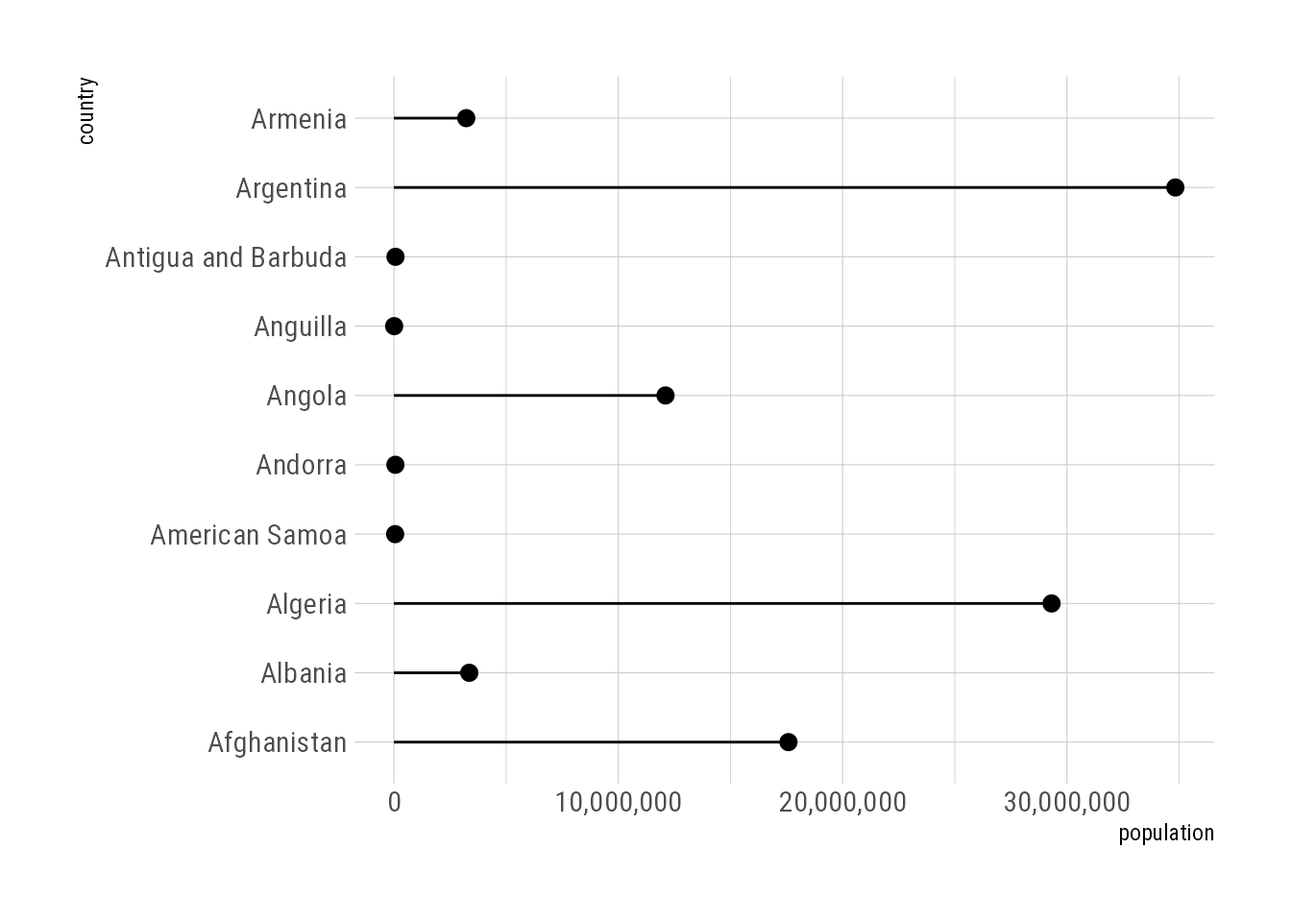
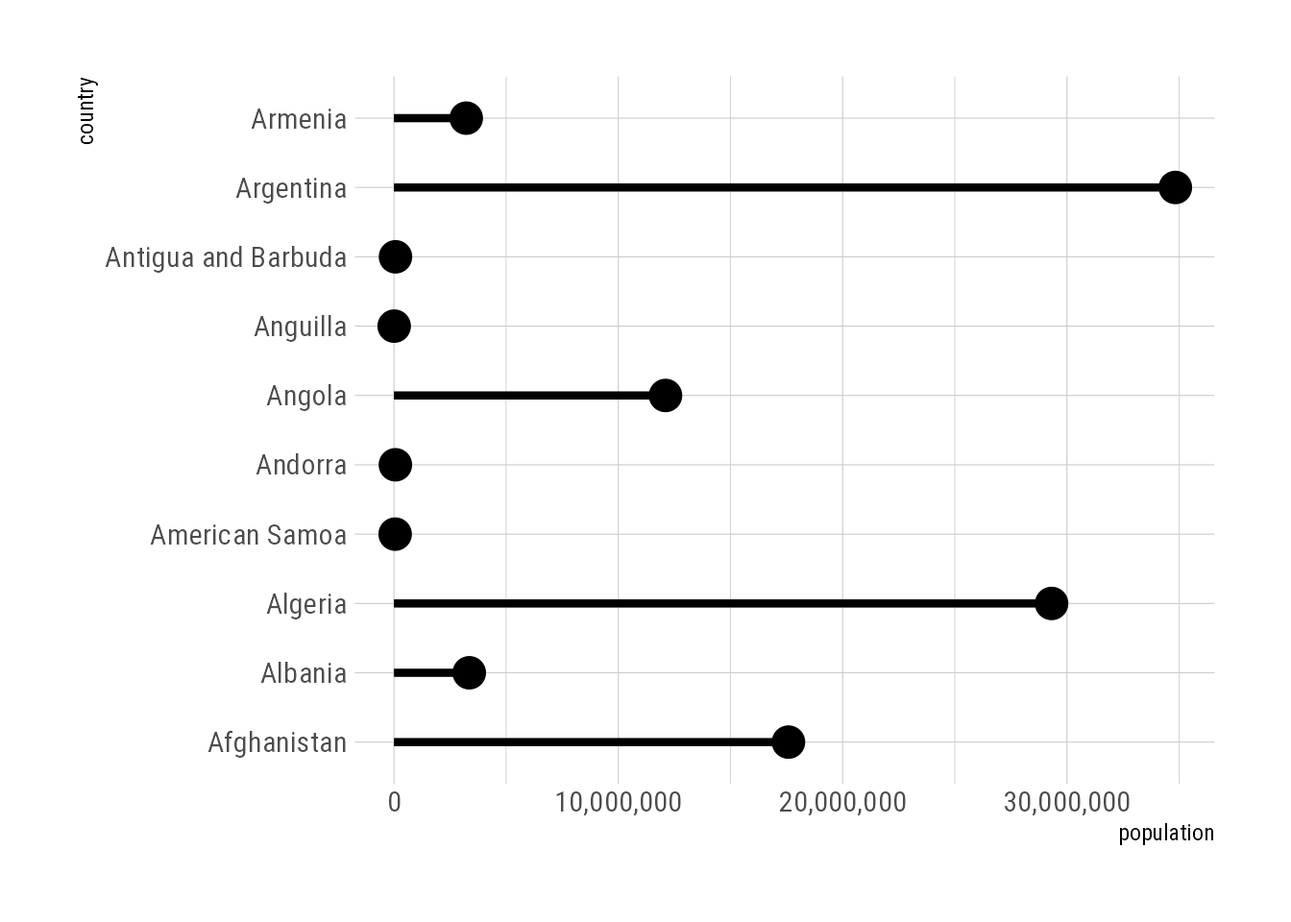
润色

diff --git a/_site/posts/文档词频.html b/_site/posts/文档词频.html
@@ -182,10 +182,11 @@ pre > code.sourceCode > span > a:first-child::before { text-decoration: underlin
 <div class="cell" data-layout-align="center">
 <div class="sourceCode cell-code" id="cb1"><pre class="sourceCode r code-with-copy"><code class="sourceCode r"><span id="cb1-1"><a href="#cb1-1" aria-hidden="true" tabindex="-1"></a><span class="fu">library</span>(tidyverse)</span>
 <span id="cb1-2"><a href="#cb1-2" aria-hidden="true" tabindex="-1"></a><span class="fu">library</span>(tidytext)</span>
-<span id="cb1-3"><a href="#cb1-3" aria-hidden="true" tabindex="-1"></a><span class="fu">theme_set</span>(hrbrthemes<span class="sc">::</span><span class="fu">theme_ipsum_rc</span>())</span></code><button title="Copy to Clipboard" class="code-copy-button"><i class="bi"></i></button></pre></div>
+<span id="cb1-3"><a href="#cb1-3" aria-hidden="true" tabindex="-1"></a><span class="fu">theme_set</span>(hrbrthemes<span class="sc">::</span><span class="fu">theme_ipsum_rc</span>())</span>
+<span id="cb1-4"><a href="#cb1-4" aria-hidden="true" tabindex="-1"></a><span class="fu">update_geom_defaults</span>(<span class="st">"pointrange"</span>, <span class="at">new =</span> <span class="fu">list</span>(<span class="at">size =</span> <span class="fl">1.2</span>, <span class="at">linewidth =</span> <span class="fl">1.5</span>))</span></code><button title="Copy to Clipboard" class="code-copy-button"><i class="bi"></i></button></pre></div>
 </div>
-<p>一般在绘制条形图或克里夫兰点图时，会按照柱子或点的高低对变量进行排序，这样绘制出的图整洁美观。</p>
-<p>比如</p>
+<p>一般在绘制条形图或克里夫兰点图时，会按照柱子或点的高低对变量进行排序，以使图形更加整洁美观。</p>
+<p>例如：</p>
 <div>
 <div class="sourceCode cell-code" id="cb2"><pre class="sourceCode r code-with-copy"><code class="sourceCode r"><span id="cb2-1"><a href="#cb2-1" aria-hidden="true" tabindex="-1"></a>pop_data <span class="ot">&lt;-</span> population <span class="sc">%&gt;%</span> </span>
 <span id="cb2-2"><a href="#cb2-2" aria-hidden="true" tabindex="-1"></a>  <span class="fu">filter</span>(year <span class="sc">==</span> <span class="dv">1995</span>) <span class="sc">%&gt;%</span> </span>
@@ -224,7 +225,7 @@ pre > code.sourceCode > span > a:first-child::before { text-decoration: underlin
 </div>
 </div>
 </div>
-<p>上面的排序是借助<code>fct_reorder()</code>函数实现的。最近在学习文本数据处理时，发现这种方法在分面时会出错。</p>
+<p>上面的排序是借助<code>fct_reorder()</code>函数实现的。然而,在处理文本数据并绘制分面图时,我发现这种方法会出现问题。</p>
 <div class="cell" data-layout-align="center">
 <div class="sourceCode cell-code" id="cb3"><pre class="sourceCode r code-with-copy"><code class="sourceCode r"><span id="cb3-1"><a href="#cb3-1" aria-hidden="true" tabindex="-1"></a>exm_data <span class="ot">&lt;-</span> <span class="fu">tibble</span>(</span>
 <span id="cb3-2"><a href="#cb3-2" aria-hidden="true" tabindex="-1"></a>  <span class="at">x =</span> <span class="fu">rep</span>(LETTERS[<span class="dv">1</span><span class="sc">:</span><span class="dv">5</span>], <span class="dv">2</span>),</span>
@@ -237,16 +238,16 @@ pre > code.sourceCode > span > a:first-child::before { text-decoration: underlin
 <pre><code># A tibble: 10 × 3
    x         y z     
    &lt;chr&gt; &lt;int&gt; &lt;chr&gt; 
- 1 A         5 group1
- 2 B         4 group1
- 3 C         7 group1
+ 1 A         4 group1
+ 2 B         3 group1
+ 3 C         2 group1
  4 D         1 group1
- 5 E         3 group1
- 6 A        10 group2
- 7 B         2 group2
- 8 C         6 group2
- 9 D         8 group2
-10 E         9 group2</code></pre>
+ 5 E        10 group1
+ 6 A         7 group2
+ 7 B         5 group2
+ 8 C         9 group2
+ 9 D         6 group2
+10 E         8 group2</code></pre>
 </div>
 </div>
 <div class="cell" data-layout-align="center">
@@ -256,7 +257,8 @@ pre > code.sourceCode > span > a:first-child::before { text-decoration: underlin
 <span id="cb5-4"><a href="#cb5-4" aria-hidden="true" tabindex="-1"></a>  <span class="fu">ggplot</span>(<span class="fu">aes</span>(x, y, <span class="at">color =</span> z)) <span class="sc">+</span></span>
 <span id="cb5-5"><a href="#cb5-5" aria-hidden="true" tabindex="-1"></a>  <span class="fu">geom_pointrange</span>(<span class="fu">aes</span>(<span class="at">ymin =</span> <span class="dv">0</span>, <span class="at">ymax =</span> y), <span class="at">show.legend =</span> <span class="cn">FALSE</span>) <span class="sc">+</span></span>
 <span id="cb5-6"><a href="#cb5-6" aria-hidden="true" tabindex="-1"></a>  <span class="fu">facet_wrap</span>(<span class="sc">~</span> z, <span class="at">nrow =</span> <span class="dv">1</span>, <span class="at">scales =</span> <span class="st">"free"</span>) <span class="sc">+</span></span>
-<span id="cb5-7"><a href="#cb5-7" aria-hidden="true" tabindex="-1"></a>  <span class="fu">coord_flip</span>()</span></code><button title="Copy to Clipboard" class="code-copy-button"><i class="bi"></i></button></pre></div>
+<span id="cb5-7"><a href="#cb5-7" aria-hidden="true" tabindex="-1"></a>  <span class="fu">coord_flip</span>() <span class="sc">+</span></span>
+<span id="cb5-8"><a href="#cb5-8" aria-hidden="true" tabindex="-1"></a>  <span class="fu">scale_color_brewer</span>(<span class="at">palette =</span> <span class="st">"Dark2"</span>)</span></code><button title="Copy to Clipboard" class="code-copy-button"><i class="bi"></i></button></pre></div>
 <div class="cell-output-display">
 <div class="quarto-figure quarto-figure-center">
 <figure class="figure">
@@ -265,8 +267,8 @@ pre > code.sourceCode > span > a:first-child::before { text-decoration: underlin
 </div>
 </div>
 </div>
-<p>可以看出，group1组别中的排序是正确的，group2组中的排序是混乱的。虽然在<code>fct_reorder()</code>前使用了<code>group_by()</code>，但是变量<code>x</code>并没有真的在两个组内分别排序。因为group1和group2的数据同处于同一个数据框内，所以变量<code>x</code>作为因子变量不能有两种排序。</p>
-<p>举个例子，我们按照既然不同的排序生成两组因子变量，然后将他们合并成一列</p>
+<p>可以看出，group1组别中的排序是正确的，group2组中的排序却是混乱的。虽然在<code>fct_reorder()</code>前使用了<code>group_by()</code>，但是变量<code>x</code>并没有真正在两个组内分别排序。这是因为group1和group2的数据同处于同一个数据框内，作为因子变量的<code>x</code>不能同时有两种排序方式。</p>
+<p>举个例子，我们按照不同的排序生成两组因子变量，然后将它们合并为一列</p>
 <div>
 <div class="sourceCode cell-code" id="cb6"><pre class="sourceCode r code-with-copy"><code class="sourceCode r"><span id="cb6-1"><a href="#cb6-1" aria-hidden="true" tabindex="-1"></a>dt_a <span class="ot">&lt;-</span> <span class="fu">tibble</span>(<span class="at">fct_var =</span> <span class="fu">factor</span>(<span class="fu">c</span>(<span class="st">"A"</span>, <span class="st">"B"</span>, <span class="st">"C"</span>, <span class="st">"D"</span>), <span class="at">levels =</span> <span class="fu">c</span>(<span class="st">"A"</span>, <span class="st">"B"</span>, <span class="st">"C"</span>, <span class="st">"D"</span>)),</span>
 <span id="cb6-2"><a href="#cb6-2" aria-hidden="true" tabindex="-1"></a>               <span class="at">id =</span> <span class="st">"a"</span>)</span>
@@ -293,7 +295,7 @@ pre > code.sourceCode > span > a:first-child::before { text-decoration: underlin
 </div>
 </div>
 </div>
-<p>但此时因子变量<code>fct_var</code>只有一种排序。</p>
+<p>但此时因子变量<code>fct_var</code>只有一种排序方式。</p>
 <div class="cell" data-layout-align="center">
 <div class="sourceCode cell-code" id="cb8"><pre class="sourceCode r code-with-copy"><code class="sourceCode r"><span id="cb8-1"><a href="#cb8-1" aria-hidden="true" tabindex="-1"></a><span class="fu">levels</span>(dt_bind<span class="sc">$</span>fct_var)</span></code><button title="Copy to Clipboard" class="code-copy-button"><i class="bi"></i></button></pre></div>
 <div class="cell-output cell-output-stdout">
@@ -301,7 +303,7 @@ pre > code.sourceCode > span > a:first-child::before { text-decoration: underlin
 </div>
 </div>
 <p>因此，在绘制分面图形时，不能用<code>fct_reorder()</code>来调整因子变量的排序。</p>
-<p><code>tidytext</code>包的<code>reorder_within()</code>和<code>scale_*_reordered()</code>可以解决这个问题。</p>
+<p>幸运的是，<code>tidytext</code>包的<code>reorder_within()</code>和<code>scale_*_reordered()</code>可以解决这个问题。</p>
 <div class="cell" data-layout-align="center">
 <div class="sourceCode cell-code" id="cb10"><pre class="sourceCode r code-with-copy"><code class="sourceCode r"><span id="cb10-1"><a href="#cb10-1" aria-hidden="true" tabindex="-1"></a>exm_data <span class="sc">%&gt;%</span> </span>
 <span id="cb10-2"><a href="#cb10-2" aria-hidden="true" tabindex="-1"></a>  <span class="fu">mutate</span>(<span class="at">x =</span> <span class="fu">reorder_within</span>(x, <span class="at">by =</span> y, <span class="at">within =</span> z)) <span class="sc">%&gt;%</span> </span>
@@ -318,7 +320,7 @@ pre > code.sourceCode > span > a:first-child::before { text-decoration: underlin
 </div>
 </div>
 </div>
-<p>这个方法的本质是先把因子变量和用于分面的变量合并成一个新的因子变量，再对这个新的因子变量进行排序。</p>
+<p>这个方法的本质是先将因子变量和用于分面的变量合并成一个新的因子变量，再对这个新的因子变量进行排序。</p>
 <div class="cell" data-layout-align="center">
 <div class="sourceCode cell-code" id="cb11"><pre class="sourceCode r code-with-copy"><code class="sourceCode r"><span id="cb11-1"><a href="#cb11-1" aria-hidden="true" tabindex="-1"></a>exm_data <span class="sc">%&gt;%</span> </span>
 <span id="cb11-2"><a href="#cb11-2" aria-hidden="true" tabindex="-1"></a>  <span class="fu">mutate</span>(<span class="at">x =</span> <span class="fu">reorder_within</span>(x, <span class="at">by =</span> y, <span class="at">within =</span> z))</span></code><button title="Copy to Clipboard" class="code-copy-button"><i class="bi"></i></button></pre></div>
@@ -326,16 +328,16 @@ pre > code.sourceCode > span > a:first-child::before { text-decoration: underlin
 <pre><code># A tibble: 10 × 3
    x              y z     
    &lt;fct&gt;      &lt;int&gt; &lt;chr&gt; 
- 1 A___group1     5 group1
- 2 B___group1     4 group1
- 3 C___group1     7 group1
+ 1 A___group1     4 group1
+ 2 B___group1     3 group1
+ 3 C___group1     2 group1
  4 D___group1     1 group1
- 5 E___group1     3 group1
- 6 A___group2    10 group2
- 7 B___group2     2 group2
- 8 C___group2     6 group2
- 9 D___group2     8 group2
-10 E___group2     9 group2</code></pre>
+ 5 E___group1    10 group1
+ 6 A___group2     7 group2
+ 7 B___group2     5 group2
+ 8 C___group2     9 group2
+ 9 D___group2     6 group2
+10 E___group2     8 group2</code></pre>
 </div>
 </div>
 <p>相当于</p>
@@ -347,18 +349,19 @@ pre > code.sourceCode > span > a:first-child::before { text-decoration: underlin
 <pre><code># A tibble: 10 × 3
    x             y z     
    &lt;fct&gt;     &lt;int&gt; &lt;chr&gt; 
- 1 A__group1     5 group1
- 2 B__group1     4 group1
- 3 C__group1     7 group1
+ 1 A__group1     4 group1
+ 2 B__group1     3 group1
+ 3 C__group1     2 group1
  4 D__group1     1 group1
- 5 E__group1     3 group1
- 6 A__group2    10 group2
- 7 B__group2     2 group2
- 8 C__group2     6 group2
- 9 D__group2     8 group2
-10 E__group2     9 group2</code></pre>
+ 5 E__group1    10 group1
+ 6 A__group2     7 group2
+ 7 B__group2     5 group2
+ 8 C__group2     9 group2
+ 9 D__group2     6 group2
+10 E__group2     8 group2</code></pre>
 </div>
 </div>
+<p>总之,在绘制包含分面的图形时,如果需要对不同分面内的因子变量进行排序,可以使用<code>tidytext</code>包提供的<code>reorder_within()</code>和<code>scale_*_reordered()</code>函数,它们可以帮助我们轻松实现分组内的因子变量排序。</p>
 
 
 <!-- -->
@@ -781,9 +784,9 @@ window.document.addEventListener("DOMContentLoaded", function (event) {
 <span id="cb15-15"><a href="#cb15-15" aria-hidden="true" tabindex="-1"></a><span class="fu">update_geom_defaults</span>(<span class="st">"pointrange"</span>, <span class="at">new =</span> <span class="fu">list</span>(<span class="at">size =</span> <span class="fl">1.2</span>, <span class="at">linewidth =</span> <span class="fl">1.5</span>))</span>
 <span id="cb15-16"><a href="#cb15-16" aria-hidden="true" tabindex="-1"></a><span class="in">```</span></span>
 <span id="cb15-17"><a href="#cb15-17" aria-hidden="true" tabindex="-1"></a></span>
-<span id="cb15-18"><a href="#cb15-18" aria-hidden="true" tabindex="-1"></a>一般在绘制条形图或克里夫兰点图时，会按照柱子或点的高低对变量进行排序，这样绘制出的图整洁美观。</span>
+<span id="cb15-18"><a href="#cb15-18" aria-hidden="true" tabindex="-1"></a>一般在绘制条形图或克里夫兰点图时，会按照柱子或点的高低对变量进行排序，以使图形更加整洁美观。</span>
 <span id="cb15-19"><a href="#cb15-19" aria-hidden="true" tabindex="-1"></a></span>
-<span id="cb15-20"><a href="#cb15-20" aria-hidden="true" tabindex="-1"></a>比如</span>
+<span id="cb15-20"><a href="#cb15-20" aria-hidden="true" tabindex="-1"></a>例如：</span>
 <span id="cb15-21"><a href="#cb15-21" aria-hidden="true" tabindex="-1"></a></span>
 <span id="cb15-24"><a href="#cb15-24" aria-hidden="true" tabindex="-1"></a><span class="in">```{r}</span></span>
 <span id="cb15-25"><a href="#cb15-25" aria-hidden="true" tabindex="-1"></a><span class="co">#| layout-ncol: 2</span></span>
@@ -810,78 +813,83 @@ window.document.addEventListener("DOMContentLoaded", function (event) {
 <span id="cb15-46"><a href="#cb15-46" aria-hidden="true" tabindex="-1"></a>  <span class="fu">coord_flip</span>()</span>
 <span id="cb15-47"><a href="#cb15-47" aria-hidden="true" tabindex="-1"></a><span class="in">```</span></span>
 <span id="cb15-48"><a href="#cb15-48" aria-hidden="true" tabindex="-1"></a></span>
-<span id="cb15-49"><a href="#cb15-49" aria-hidden="true" tabindex="-1"></a>上面的排序是借助<span class="in">`fct_reorder()`</span>函数实现的。最近在学习文本数据处理时，发现这种方法在分面时会出错。</span>
+<span id="cb15-49"><a href="#cb15-49" aria-hidden="true" tabindex="-1"></a>上面的排序是借助<span class="in">`fct_reorder()`</span>函数实现的。然而,在处理文本数据并绘制分面图时,我发现这种方法会出现问题。</span>
 <span id="cb15-50"><a href="#cb15-50" aria-hidden="true" tabindex="-1"></a></span>
-<span id="cb15-53"><a href="#cb15-53" aria-hidden="true" tabindex="-1"></a><span class="in">```{r}</span></span>
-<span id="cb15-54"><a href="#cb15-54" aria-hidden="true" tabindex="-1"></a>exm_data <span class="ot">&lt;-</span> <span class="fu">tibble</span>(</span>
-<span id="cb15-55"><a href="#cb15-55" aria-hidden="true" tabindex="-1"></a>  <span class="at">x =</span> <span class="fu">rep</span>(LETTERS[<span class="dv">1</span><span class="sc">:</span><span class="dv">5</span>], <span class="dv">2</span>),</span>
-<span id="cb15-56"><a href="#cb15-56" aria-hidden="true" tabindex="-1"></a>  <span class="at">y =</span> <span class="fu">sample</span>(<span class="dv">1</span><span class="sc">:</span><span class="dv">10</span>),</span>
-<span id="cb15-57"><a href="#cb15-57" aria-hidden="true" tabindex="-1"></a>  <span class="at">z =</span> <span class="fu">c</span>(<span class="fu">rep</span>(<span class="st">"group1"</span>, <span class="dv">5</span>), <span class="fu">rep</span>(<span class="st">"group2"</span>, <span class="dv">5</span>))</span>
-<span id="cb15-58"><a href="#cb15-58" aria-hidden="true" tabindex="-1"></a>)</span>
-<span id="cb15-59"><a href="#cb15-59" aria-hidden="true" tabindex="-1"></a></span>
-<span id="cb15-60"><a href="#cb15-60" aria-hidden="true" tabindex="-1"></a>exm_data</span>
-<span id="cb15-61"><a href="#cb15-61" aria-hidden="true" tabindex="-1"></a><span class="in">```</span></span>
-<span id="cb15-62"><a href="#cb15-62" aria-hidden="true" tabindex="-1"></a></span>
-<span id="cb15-65"><a href="#cb15-65" aria-hidden="true" tabindex="-1"></a><span class="in">```{r}</span></span>
-<span id="cb15-66"><a href="#cb15-66" aria-hidden="true" tabindex="-1"></a>exm_data <span class="sc">%&gt;%</span> </span>
-<span id="cb15-67"><a href="#cb15-67" aria-hidden="true" tabindex="-1"></a>  <span class="fu">group_by</span>(z) <span class="sc">%&gt;%</span> </span>
-<span id="cb15-68"><a href="#cb15-68" aria-hidden="true" tabindex="-1"></a>  <span class="fu">mutate</span>(<span class="at">x =</span> <span class="fu">fct_reorder</span>(x, y)) <span class="sc">%&gt;%</span> </span>
-<span id="cb15-69"><a href="#cb15-69" aria-hidden="true" tabindex="-1"></a>  <span class="fu">ggplot</span>(<span class="fu">aes</span>(x, y, <span class="at">color =</span> z)) <span class="sc">+</span></span>
-<span id="cb15-70"><a href="#cb15-70" aria-hidden="true" tabindex="-1"></a>  <span class="fu">geom_pointrange</span>(<span class="fu">aes</span>(<span class="at">ymin =</span> <span class="dv">0</span>, <span class="at">ymax =</span> y), <span class="at">show.legend =</span> <span class="cn">FALSE</span>) <span class="sc">+</span></span>
-<span id="cb15-71"><a href="#cb15-71" aria-hidden="true" tabindex="-1"></a>  <span class="fu">facet_wrap</span>(<span class="sc">~</span> z, <span class="at">nrow =</span> <span class="dv">1</span>, <span class="at">scales =</span> <span class="st">"free"</span>) <span class="sc">+</span></span>
-<span id="cb15-72"><a href="#cb15-72" aria-hidden="true" tabindex="-1"></a>  <span class="fu">coord_flip</span>() <span class="sc">+</span></span>
-<span id="cb15-73"><a href="#cb15-73" aria-hidden="true" tabindex="-1"></a>  <span class="fu">scale_color_brewer</span>(<span class="at">palette =</span> <span class="st">"Dark2"</span>)</span>
-<span id="cb15-74"><a href="#cb15-74" aria-hidden="true" tabindex="-1"></a><span class="in">```</span></span>
-<span id="cb15-75"><a href="#cb15-75" aria-hidden="true" tabindex="-1"></a></span>
-<span id="cb15-76"><a href="#cb15-76" aria-hidden="true" tabindex="-1"></a>可以看出，group1组别中的排序是正确的，group2组中的排序是混乱的。虽然在<span class="in">`fct_reorder()`</span>前使用了<span class="in">`group_by()`</span>，但是变量<span class="in">`x`</span>并没有真的在两个组内分别排序。因为group1和group2的数据同处于同一个数据框内，所以变量<span class="in">`x`</span>作为因子变量不能有两种排序。</span>
+<span id="cb15-51"><a href="#cb15-51" aria-hidden="true" tabindex="-1"></a></span>
+<span id="cb15-52"><a href="#cb15-52" aria-hidden="true" tabindex="-1"></a></span>
+<span id="cb15-55"><a href="#cb15-55" aria-hidden="true" tabindex="-1"></a><span class="in">```{r}</span></span>
+<span id="cb15-56"><a href="#cb15-56" aria-hidden="true" tabindex="-1"></a>exm_data <span class="ot">&lt;-</span> <span class="fu">tibble</span>(</span>
+<span id="cb15-57"><a href="#cb15-57" aria-hidden="true" tabindex="-1"></a>  <span class="at">x =</span> <span class="fu">rep</span>(LETTERS[<span class="dv">1</span><span class="sc">:</span><span class="dv">5</span>], <span class="dv">2</span>),</span>
+<span id="cb15-58"><a href="#cb15-58" aria-hidden="true" tabindex="-1"></a>  <span class="at">y =</span> <span class="fu">sample</span>(<span class="dv">1</span><span class="sc">:</span><span class="dv">10</span>),</span>
+<span id="cb15-59"><a href="#cb15-59" aria-hidden="true" tabindex="-1"></a>  <span class="at">z =</span> <span class="fu">c</span>(<span class="fu">rep</span>(<span class="st">"group1"</span>, <span class="dv">5</span>), <span class="fu">rep</span>(<span class="st">"group2"</span>, <span class="dv">5</span>))</span>
+<span id="cb15-60"><a href="#cb15-60" aria-hidden="true" tabindex="-1"></a>)</span>
+<span id="cb15-61"><a href="#cb15-61" aria-hidden="true" tabindex="-1"></a></span>
+<span id="cb15-62"><a href="#cb15-62" aria-hidden="true" tabindex="-1"></a>exm_data</span>
+<span id="cb15-63"><a href="#cb15-63" aria-hidden="true" tabindex="-1"></a><span class="in">```</span></span>
+<span id="cb15-64"><a href="#cb15-64" aria-hidden="true" tabindex="-1"></a></span>
+<span id="cb15-67"><a href="#cb15-67" aria-hidden="true" tabindex="-1"></a><span class="in">```{r}</span></span>
+<span id="cb15-68"><a href="#cb15-68" aria-hidden="true" tabindex="-1"></a>exm_data <span class="sc">%&gt;%</span> </span>
+<span id="cb15-69"><a href="#cb15-69" aria-hidden="true" tabindex="-1"></a>  <span class="fu">group_by</span>(z) <span class="sc">%&gt;%</span> </span>
+<span id="cb15-70"><a href="#cb15-70" aria-hidden="true" tabindex="-1"></a>  <span class="fu">mutate</span>(<span class="at">x =</span> <span class="fu">fct_reorder</span>(x, y)) <span class="sc">%&gt;%</span> </span>
+<span id="cb15-71"><a href="#cb15-71" aria-hidden="true" tabindex="-1"></a>  <span class="fu">ggplot</span>(<span class="fu">aes</span>(x, y, <span class="at">color =</span> z)) <span class="sc">+</span></span>
+<span id="cb15-72"><a href="#cb15-72" aria-hidden="true" tabindex="-1"></a>  <span class="fu">geom_pointrange</span>(<span class="fu">aes</span>(<span class="at">ymin =</span> <span class="dv">0</span>, <span class="at">ymax =</span> y), <span class="at">show.legend =</span> <span class="cn">FALSE</span>) <span class="sc">+</span></span>
+<span id="cb15-73"><a href="#cb15-73" aria-hidden="true" tabindex="-1"></a>  <span class="fu">facet_wrap</span>(<span class="sc">~</span> z, <span class="at">nrow =</span> <span class="dv">1</span>, <span class="at">scales =</span> <span class="st">"free"</span>) <span class="sc">+</span></span>
+<span id="cb15-74"><a href="#cb15-74" aria-hidden="true" tabindex="-1"></a>  <span class="fu">coord_flip</span>() <span class="sc">+</span></span>
+<span id="cb15-75"><a href="#cb15-75" aria-hidden="true" tabindex="-1"></a>  <span class="fu">scale_color_brewer</span>(<span class="at">palette =</span> <span class="st">"Dark2"</span>)</span>
+<span id="cb15-76"><a href="#cb15-76" aria-hidden="true" tabindex="-1"></a><span class="in">```</span></span>
 <span id="cb15-77"><a href="#cb15-77" aria-hidden="true" tabindex="-1"></a></span>
-<span id="cb15-78"><a href="#cb15-78" aria-hidden="true" tabindex="-1"></a>举个例子，我们按照既然不同的排序生成两组因子变量，然后将他们合并成一列</span>
+<span id="cb15-78"><a href="#cb15-78" aria-hidden="true" tabindex="-1"></a>可以看出，group1组别中的排序是正确的，group2组中的排序却是混乱的。虽然在<span class="in">`fct_reorder()`</span>前使用了<span class="in">`group_by()`</span>，但是变量<span class="in">`x`</span>并没有真正在两个组内分别排序。这是因为group1和group2的数据同处于同一个数据框内，作为因子变量的<span class="in">`x`</span>不能同时有两种排序方式。</span>
 <span id="cb15-79"><a href="#cb15-79" aria-hidden="true" tabindex="-1"></a></span>
-<span id="cb15-82"><a href="#cb15-82" aria-hidden="true" tabindex="-1"></a><span class="in">```{r}</span></span>
-<span id="cb15-83"><a href="#cb15-83" aria-hidden="true" tabindex="-1"></a><span class="co">#| layout-ncol: 2</span></span>
-<span id="cb15-84"><a href="#cb15-84" aria-hidden="true" tabindex="-1"></a>dt_a <span class="ot">&lt;-</span> <span class="fu">tibble</span>(<span class="at">fct_var =</span> <span class="fu">factor</span>(<span class="fu">c</span>(<span class="st">"A"</span>, <span class="st">"B"</span>, <span class="st">"C"</span>, <span class="st">"D"</span>), <span class="at">levels =</span> <span class="fu">c</span>(<span class="st">"A"</span>, <span class="st">"B"</span>, <span class="st">"C"</span>, <span class="st">"D"</span>)),</span>
-<span id="cb15-85"><a href="#cb15-85" aria-hidden="true" tabindex="-1"></a>               <span class="at">id =</span> <span class="st">"a"</span>)</span>
-<span id="cb15-86"><a href="#cb15-86" aria-hidden="true" tabindex="-1"></a>dt_b <span class="ot">&lt;-</span> <span class="fu">tibble</span>(<span class="at">fct_var =</span> <span class="fu">factor</span>(<span class="fu">c</span>(<span class="st">"A"</span>, <span class="st">"B"</span>, <span class="st">"C"</span>, <span class="st">"D"</span>), <span class="at">levels =</span> <span class="fu">c</span>(<span class="st">"D"</span>, <span class="st">"C"</span>, <span class="st">"B"</span>, <span class="st">"A"</span>)),</span>
-<span id="cb15-87"><a href="#cb15-87" aria-hidden="true" tabindex="-1"></a>               <span class="at">id =</span> <span class="st">"b"</span>)</span>
-<span id="cb15-88"><a href="#cb15-88" aria-hidden="true" tabindex="-1"></a></span>
-<span id="cb15-89"><a href="#cb15-89" aria-hidden="true" tabindex="-1"></a>dt_bind <span class="ot">&lt;-</span> <span class="fu">bind_rows</span>(dt_a, dt_b)</span>
-<span id="cb15-90"><a href="#cb15-90" aria-hidden="true" tabindex="-1"></a>dt_bind</span>
-<span id="cb15-91"><a href="#cb15-91" aria-hidden="true" tabindex="-1"></a><span class="in">```</span></span>
-<span id="cb15-92"><a href="#cb15-92" aria-hidden="true" tabindex="-1"></a></span>
-<span id="cb15-93"><a href="#cb15-93" aria-hidden="true" tabindex="-1"></a>但此时因子变量<span class="in">`fct_var`</span>只有一种排序。</span>
+<span id="cb15-80"><a href="#cb15-80" aria-hidden="true" tabindex="-1"></a>举个例子，我们按照不同的排序生成两组因子变量，然后将它们合并为一列</span>
+<span id="cb15-81"><a href="#cb15-81" aria-hidden="true" tabindex="-1"></a></span>
+<span id="cb15-84"><a href="#cb15-84" aria-hidden="true" tabindex="-1"></a><span class="in">```{r}</span></span>
+<span id="cb15-85"><a href="#cb15-85" aria-hidden="true" tabindex="-1"></a><span class="co">#| layout-ncol: 2</span></span>
+<span id="cb15-86"><a href="#cb15-86" aria-hidden="true" tabindex="-1"></a>dt_a <span class="ot">&lt;-</span> <span class="fu">tibble</span>(<span class="at">fct_var =</span> <span class="fu">factor</span>(<span class="fu">c</span>(<span class="st">"A"</span>, <span class="st">"B"</span>, <span class="st">"C"</span>, <span class="st">"D"</span>), <span class="at">levels =</span> <span class="fu">c</span>(<span class="st">"A"</span>, <span class="st">"B"</span>, <span class="st">"C"</span>, <span class="st">"D"</span>)),</span>
+<span id="cb15-87"><a href="#cb15-87" aria-hidden="true" tabindex="-1"></a>               <span class="at">id =</span> <span class="st">"a"</span>)</span>
+<span id="cb15-88"><a href="#cb15-88" aria-hidden="true" tabindex="-1"></a>dt_b <span class="ot">&lt;-</span> <span class="fu">tibble</span>(<span class="at">fct_var =</span> <span class="fu">factor</span>(<span class="fu">c</span>(<span class="st">"A"</span>, <span class="st">"B"</span>, <span class="st">"C"</span>, <span class="st">"D"</span>), <span class="at">levels =</span> <span class="fu">c</span>(<span class="st">"D"</span>, <span class="st">"C"</span>, <span class="st">"B"</span>, <span class="st">"A"</span>)),</span>
+<span id="cb15-89"><a href="#cb15-89" aria-hidden="true" tabindex="-1"></a>               <span class="at">id =</span> <span class="st">"b"</span>)</span>
+<span id="cb15-90"><a href="#cb15-90" aria-hidden="true" tabindex="-1"></a></span>
+<span id="cb15-91"><a href="#cb15-91" aria-hidden="true" tabindex="-1"></a>dt_bind <span class="ot">&lt;-</span> <span class="fu">bind_rows</span>(dt_a, dt_b)</span>
+<span id="cb15-92"><a href="#cb15-92" aria-hidden="true" tabindex="-1"></a>dt_bind</span>
+<span id="cb15-93"><a href="#cb15-93" aria-hidden="true" tabindex="-1"></a><span class="in">```</span></span>
 <span id="cb15-94"><a href="#cb15-94" aria-hidden="true" tabindex="-1"></a></span>
-<span id="cb15-97"><a href="#cb15-97" aria-hidden="true" tabindex="-1"></a><span class="in">```{r}</span></span>
-<span id="cb15-98"><a href="#cb15-98" aria-hidden="true" tabindex="-1"></a><span class="fu">levels</span>(dt_bind<span class="sc">$</span>fct_var)</span>
-<span id="cb15-99"><a href="#cb15-99" aria-hidden="true" tabindex="-1"></a><span class="in">```</span></span>
-<span id="cb15-100"><a href="#cb15-100" aria-hidden="true" tabindex="-1"></a></span>
-<span id="cb15-101"><a href="#cb15-101" aria-hidden="true" tabindex="-1"></a>因此，在绘制分面图形时，不能用<span class="in">`fct_reorder()`</span>来调整因子变量的排序。</span>
+<span id="cb15-95"><a href="#cb15-95" aria-hidden="true" tabindex="-1"></a>但此时因子变量<span class="in">`fct_var`</span>只有一种排序方式。</span>
+<span id="cb15-96"><a href="#cb15-96" aria-hidden="true" tabindex="-1"></a></span>
+<span id="cb15-99"><a href="#cb15-99" aria-hidden="true" tabindex="-1"></a><span class="in">```{r}</span></span>
+<span id="cb15-100"><a href="#cb15-100" aria-hidden="true" tabindex="-1"></a><span class="fu">levels</span>(dt_bind<span class="sc">$</span>fct_var)</span>
+<span id="cb15-101"><a href="#cb15-101" aria-hidden="true" tabindex="-1"></a><span class="in">```</span></span>
 <span id="cb15-102"><a href="#cb15-102" aria-hidden="true" tabindex="-1"></a></span>
-<span id="cb15-103"><a href="#cb15-103" aria-hidden="true" tabindex="-1"></a><span class="in">`tidytext`</span>包的<span class="in">`reorder_within()`</span>和<span class="in">`scale_*_reordered()`</span>可以解决这个问题。</span>
+<span id="cb15-103"><a href="#cb15-103" aria-hidden="true" tabindex="-1"></a>因此，在绘制分面图形时，不能用<span class="in">`fct_reorder()`</span>来调整因子变量的排序。</span>
 <span id="cb15-104"><a href="#cb15-104" aria-hidden="true" tabindex="-1"></a></span>
-<span id="cb15-107"><a href="#cb15-107" aria-hidden="true" tabindex="-1"></a><span class="in">```{r}</span></span>
-<span id="cb15-108"><a href="#cb15-108" aria-hidden="true" tabindex="-1"></a>exm_data <span class="sc">%&gt;%</span> </span>
-<span id="cb15-109"><a href="#cb15-109" aria-hidden="true" tabindex="-1"></a>  <span class="fu">mutate</span>(<span class="at">x =</span> <span class="fu">reorder_within</span>(x, <span class="at">by =</span> y, <span class="at">within =</span> z)) <span class="sc">%&gt;%</span> </span>
-<span id="cb15-110"><a href="#cb15-110" aria-hidden="true" tabindex="-1"></a>  <span class="fu">ggplot</span>(<span class="fu">aes</span>(x, y, <span class="at">color =</span> z)) <span class="sc">+</span></span>
-<span id="cb15-111"><a href="#cb15-111" aria-hidden="true" tabindex="-1"></a>  <span class="fu">geom_pointrange</span>(<span class="fu">aes</span>(<span class="at">ymin =</span> <span class="dv">0</span>, <span class="at">ymax =</span> y), <span class="at">show.legend =</span> <span class="cn">FALSE</span>) <span class="sc">+</span></span>
-<span id="cb15-112"><a href="#cb15-112" aria-hidden="true" tabindex="-1"></a>  <span class="fu">facet_wrap</span>(<span class="sc">~</span> z, <span class="at">scales =</span> <span class="st">"free_y"</span>) <span class="sc">+</span></span>
-<span id="cb15-113"><a href="#cb15-113" aria-hidden="true" tabindex="-1"></a>  <span class="fu">scale_x_reordered</span>() <span class="sc">+</span></span>
-<span id="cb15-114"><a href="#cb15-114" aria-hidden="true" tabindex="-1"></a>  <span class="fu">coord_flip</span>()</span>
-<span id="cb15-115"><a href="#cb15-115" aria-hidden="true" tabindex="-1"></a><span class="in">```</span></span>
-<span id="cb15-116"><a href="#cb15-116" aria-hidden="true" tabindex="-1"></a></span>
-<span id="cb15-117"><a href="#cb15-117" aria-hidden="true" tabindex="-1"></a>这个方法的本质是先把因子变量和用于分面的变量合并成一个新的因子变量，再对这个新的因子变量进行排序。</span>
+<span id="cb15-105"><a href="#cb15-105" aria-hidden="true" tabindex="-1"></a>幸运的是，<span class="in">`tidytext`</span>包的<span class="in">`reorder_within()`</span>和<span class="in">`scale_*_reordered()`</span>可以解决这个问题。</span>
+<span id="cb15-106"><a href="#cb15-106" aria-hidden="true" tabindex="-1"></a></span>
+<span id="cb15-109"><a href="#cb15-109" aria-hidden="true" tabindex="-1"></a><span class="in">```{r}</span></span>
+<span id="cb15-110"><a href="#cb15-110" aria-hidden="true" tabindex="-1"></a>exm_data <span class="sc">%&gt;%</span> </span>
+<span id="cb15-111"><a href="#cb15-111" aria-hidden="true" tabindex="-1"></a>  <span class="fu">mutate</span>(<span class="at">x =</span> <span class="fu">reorder_within</span>(x, <span class="at">by =</span> y, <span class="at">within =</span> z)) <span class="sc">%&gt;%</span> </span>
+<span id="cb15-112"><a href="#cb15-112" aria-hidden="true" tabindex="-1"></a>  <span class="fu">ggplot</span>(<span class="fu">aes</span>(x, y, <span class="at">color =</span> z)) <span class="sc">+</span></span>
+<span id="cb15-113"><a href="#cb15-113" aria-hidden="true" tabindex="-1"></a>  <span class="fu">geom_pointrange</span>(<span class="fu">aes</span>(<span class="at">ymin =</span> <span class="dv">0</span>, <span class="at">ymax =</span> y), <span class="at">show.legend =</span> <span class="cn">FALSE</span>) <span class="sc">+</span></span>
+<span id="cb15-114"><a href="#cb15-114" aria-hidden="true" tabindex="-1"></a>  <span class="fu">facet_wrap</span>(<span class="sc">~</span> z, <span class="at">scales =</span> <span class="st">"free_y"</span>) <span class="sc">+</span></span>
+<span id="cb15-115"><a href="#cb15-115" aria-hidden="true" tabindex="-1"></a>  <span class="fu">scale_x_reordered</span>() <span class="sc">+</span></span>
+<span id="cb15-116"><a href="#cb15-116" aria-hidden="true" tabindex="-1"></a>  <span class="fu">coord_flip</span>()</span>
+<span id="cb15-117"><a href="#cb15-117" aria-hidden="true" tabindex="-1"></a><span class="in">```</span></span>
 <span id="cb15-118"><a href="#cb15-118" aria-hidden="true" tabindex="-1"></a></span>
-<span id="cb15-121"><a href="#cb15-121" aria-hidden="true" tabindex="-1"></a><span class="in">```{r}</span></span>
-<span id="cb15-122"><a href="#cb15-122" aria-hidden="true" tabindex="-1"></a>exm_data <span class="sc">%&gt;%</span> </span>
-<span id="cb15-123"><a href="#cb15-123" aria-hidden="true" tabindex="-1"></a>  <span class="fu">mutate</span>(<span class="at">x =</span> <span class="fu">reorder_within</span>(x, <span class="at">by =</span> y, <span class="at">within =</span> z))</span>
-<span id="cb15-124"><a href="#cb15-124" aria-hidden="true" tabindex="-1"></a><span class="in">```</span></span>
-<span id="cb15-125"><a href="#cb15-125" aria-hidden="true" tabindex="-1"></a></span>
-<span id="cb15-126"><a href="#cb15-126" aria-hidden="true" tabindex="-1"></a>相当于</span>
+<span id="cb15-119"><a href="#cb15-119" aria-hidden="true" tabindex="-1"></a>这个方法的本质是先将因子变量和用于分面的变量合并成一个新的因子变量，再对这个新的因子变量进行排序。</span>
+<span id="cb15-120"><a href="#cb15-120" aria-hidden="true" tabindex="-1"></a></span>
+<span id="cb15-123"><a href="#cb15-123" aria-hidden="true" tabindex="-1"></a><span class="in">```{r}</span></span>
+<span id="cb15-124"><a href="#cb15-124" aria-hidden="true" tabindex="-1"></a>exm_data <span class="sc">%&gt;%</span> </span>
+<span id="cb15-125"><a href="#cb15-125" aria-hidden="true" tabindex="-1"></a>  <span class="fu">mutate</span>(<span class="at">x =</span> <span class="fu">reorder_within</span>(x, <span class="at">by =</span> y, <span class="at">within =</span> z))</span>
+<span id="cb15-126"><a href="#cb15-126" aria-hidden="true" tabindex="-1"></a><span class="in">```</span></span>
 <span id="cb15-127"><a href="#cb15-127" aria-hidden="true" tabindex="-1"></a></span>
-<span id="cb15-130"><a href="#cb15-130" aria-hidden="true" tabindex="-1"></a><span class="in">```{r}</span></span>
-<span id="cb15-131"><a href="#cb15-131" aria-hidden="true" tabindex="-1"></a>exm_data <span class="sc">%&gt;%</span> </span>
-<span id="cb15-132"><a href="#cb15-132" aria-hidden="true" tabindex="-1"></a>  <span class="fu">mutate</span>(<span class="at">x =</span> <span class="fu">str_c</span>(x, z, <span class="at">sep =</span> <span class="st">"__"</span>),</span>
-<span id="cb15-133"><a href="#cb15-133" aria-hidden="true" tabindex="-1"></a>         <span class="at">x =</span> <span class="fu">fct_reorder</span>(x, y))</span>
-<span id="cb15-134"><a href="#cb15-134" aria-hidden="true" tabindex="-1"></a><span class="in">```</span></span>
+<span id="cb15-128"><a href="#cb15-128" aria-hidden="true" tabindex="-1"></a>相当于</span>
+<span id="cb15-129"><a href="#cb15-129" aria-hidden="true" tabindex="-1"></a></span>
+<span id="cb15-132"><a href="#cb15-132" aria-hidden="true" tabindex="-1"></a><span class="in">```{r}</span></span>
+<span id="cb15-133"><a href="#cb15-133" aria-hidden="true" tabindex="-1"></a>exm_data <span class="sc">%&gt;%</span> </span>
+<span id="cb15-134"><a href="#cb15-134" aria-hidden="true" tabindex="-1"></a>  <span class="fu">mutate</span>(<span class="at">x =</span> <span class="fu">str_c</span>(x, z, <span class="at">sep =</span> <span class="st">"__"</span>),</span>
+<span id="cb15-135"><a href="#cb15-135" aria-hidden="true" tabindex="-1"></a>         <span class="at">x =</span> <span class="fu">fct_reorder</span>(x, y))</span>
+<span id="cb15-136"><a href="#cb15-136" aria-hidden="true" tabindex="-1"></a><span class="in">```</span></span>
+<span id="cb15-137"><a href="#cb15-137" aria-hidden="true" tabindex="-1"></a></span>
+<span id="cb15-138"><a href="#cb15-138" aria-hidden="true" tabindex="-1"></a></span>
+<span id="cb15-139"><a href="#cb15-139" aria-hidden="true" tabindex="-1"></a>总之,在绘制包含分面的图形时,如果需要对不同分面内的因子变量进行排序,可以使用<span class="in">`tidytext`</span>包提供的<span class="in">`reorder_within()`</span>和<span class="in">`scale_*_reordered()`</span>函数,它们可以帮助我们轻松实现分组内的因子变量排序。</span>
 </code><button title="Copy to Clipboard" class="code-copy-button"><i class="bi"></i></button></pre></div>
 </div></div></div></div></div>
 </div> <!-- /content -->

diff --git a/_site/index.html b/_site/index.html
@@ -173,7 +173,7 @@ ul.task-list li input[type="checkbox"] {
 
 <div class="quarto-listing quarto-listing-container-default" id="listing-listing">
 <div class="list quarto-listing-default">
-<div class="quarto-post image-right" data-index="0" data-categories="R,text data" data-listing-file-modified-sort="1713185377343" data-listing-reading-time-sort="2">
+<div class="quarto-post image-right" data-index="0" data-categories="R,text data" data-listing-file-modified-sort="1713186865919" data-listing-reading-time-sort="2">
 <div class="thumbnail">
 <p><a href="./posts/文档词频.html"> <p class="card-img-top"><img src="posts\文档词频_files\figure-html\unnamed-chunk-2-1.png"  class="thumbnail-image card-img"/></p> </a></p>
 </div>
@@ -196,7 +196,7 @@ text data
 </div>
 <a href="./posts/文档词频.html">
 <div class="listing-description">
-一般在绘制条形图或克里夫兰点图时，会按照柱子或点的高低对变量进行排序，这样绘制出的图整洁美观。
+一般在绘制条形图或克里夫兰点图时，会按照柱子或点的高低对变量进行排序，以使图形更加整洁美观。
 </div>
 </a>
 </div>
